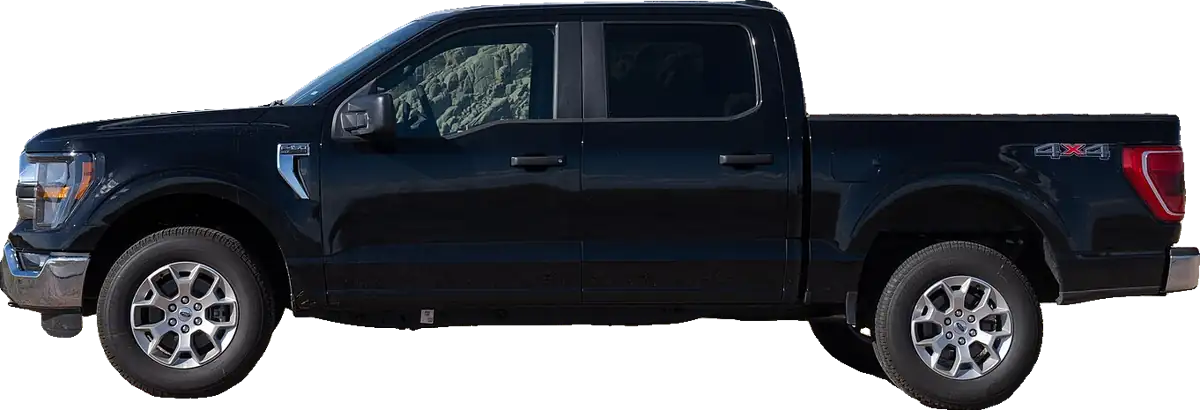
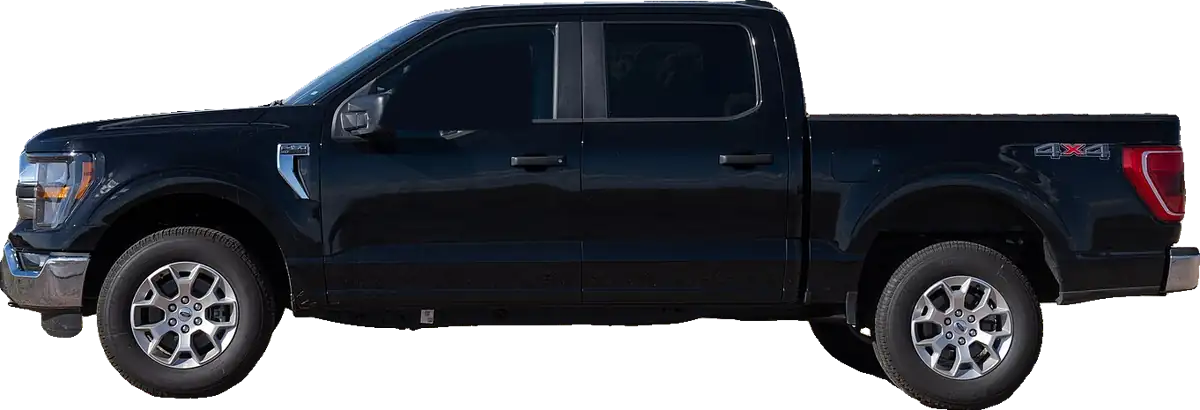
feat: new hero vehicle, a clean white Silverado EV side profile
The F-150 photo had a rock-face reflection in its front window that read as
dirt. The hero is now a 2024 Chevrolet Silverado EV WT side profile (Kaundike,
Wikimedia Commons, CC BY-SA 4.0). cutouts.py gains a glass step: listed window
polygons are filled with the tint of clean glass on the same vehicle, so
reflections of the photo's surroundings do not show. The Silverado's front
window and a background fragment above its roof are cleaned this way. The
truck faces right, so the fade now runs from the left and the front stays
sharp. Footer credit follows the image on the page.

verification: npm run build passes. Cutout checked on dark and magenta backgrounds at full size. Playwright desktop and 390 px mobile screenshots show the full truck with no page errors, credit names the Silverado only.

Claude-Session: https://claude.ai/code/session_01SemKtd3dL5hDa4dub8gHam

Changed region(s): [[0.3083, 0.0878, 0.4625, 0.322]]

diff --git a/site/src/landing.css b/site/src/landing.css
@@ -93,7 +93,7 @@ h3 { font-size: 1.25rem; font-weight: 700; }
     radial-gradient(40% 40% at 10% 10%, rgba(238, 232, 220, 0.06), transparent 70%),
     var(--carbon-900);
 }
-/* ---- Hero vehicle: crisp at the front, the rear and underside dissolve into the page ---- */
+/* ---- Hero vehicle: faces right, crisp at the front, the rear and underside dissolve into the page ---- */
 .hero__car {
   position: absolute;
   z-index: 1;
@@ -115,8 +115,8 @@ h3 { font-size: 1.25rem; font-weight: 700; }
 .hero__car::after {
   content: "";
   position: absolute;
-  left: 4%;
-  right: 22%;
+  left: 22%;
+  right: 4%;
   bottom: -3%;
   height: 12%;
   background: radial-gradient(50% 50% at 50% 50%, rgba(0, 0, 0, 0.7), transparent 70%);
@@ -127,7 +127,7 @@ h3 { font-size: 1.25rem; font-weight: 700; }
   width: 100%;
   height: auto;
   filter: brightness(1.18) contrast(1.06) saturate(0.9);
-  --fade: linear-gradient(to left, transparent 0%, #000 30%), linear-gradient(to bottom, #000 78%, transparent 100%);
+  --fade: linear-gradient(to right, transparent 0%, #000 20%), linear-gradient(to bottom, #000 82%, transparent 100%);
   -webkit-mask-image: var(--fade);
   -webkit-mask-composite: source-in;
   mask-image: var(--fade);
@@ -207,7 +207,7 @@ h3 { font-size: 1.25rem; font-weight: 700; }
   .brand__word { font-size: 1.2rem; }
   .top .brand__tag { display: none; }
   .hero { align-items: flex-start; padding-top: 48px; padding-bottom: 46vw; min-height: 720px; }
-  .hero__car { width: 100vw; right: -6vw; bottom: 2%; }
+  .hero__car { width: 100vw; right: 0; bottom: 2%; }
   .top { backdrop-filter: none; background: var(--carbon-900); }
 }
 

diff --git a/site/index.html b/site/index.html
@@ -11,7 +11,7 @@
   <meta property="og:type" content="website" />
   <meta property="og:title" content="Ember Rent: vans, trucks and cars south of the Fraser" />
   <meta property="og:description" content="All-in prices, neighbourhood pickup and business accounts with monthly invoicing." />
-  <meta property="og:image" content="./hero/ford-f150.webp" />
+  <meta property="og:image" content="./hero/silverado-ev.webp" />
   <script type="application/ld+json">
   {
     "@context": "https://schema.org",
@@ -61,7 +61,7 @@
         </g>
       </svg>
       <figure class="hero__car" aria-hidden="true">
-        <img src="./hero/ford-f150.webp" alt="" width="1200" height="410" fetchpriority="high" />
+        <img src="./hero/silverado-ev.webp" alt="" width="1200" height="401" fetchpriority="high" />
       </figure>
       <div class="hero__copy">
         <p class="eyebrow">Surrey · Delta · White Rock · Langley</p>

diff --git a/tools/hero/cutouts.py b/tools/hero/cutouts.py
@@ -7,6 +7,9 @@ For each entry in tools/hero/cutouts.json:
   3. Remove the background with rembg (isnet-general-use) and keep the largest region.
   4. Clear any listed boxes (fractions of the cutout) that still hold fragments of other objects,
      keep the largest region again and crop to the vehicle.
+  4b. Fill any listed glass polygons (fractions of the cutout) with a flat tint, so reflections of the
+     photo's surroundings in a window do not read as dirt. The tint is sampled from clean glass on the
+     same vehicle and recorded in cutouts.json.
   5. Resize to at most MAX_WIDTH and save WebP with alpha.
 
 The fade into the page is a CSS mask on the site, not baked into the files.
@@ -77,6 +80,16 @@ def source(item, cache):
     return got, raw
 
 
+def glass_filled(rgba, panes):
+    h, w = rgba.shape[:2]
+    for pane in panes:
+        mask = np.zeros((h, w), np.uint8)
+        cv2.fillPoly(mask, [np.array([[x * w, y * h] for x, y in pane["polygon"]], np.int32)], 255)
+        soft = cv2.GaussianBlur(mask, (5, 5), 0)[..., None] / 255.0
+        rgba[..., :3] = (rgba[..., :3] * (1 - soft) + np.array(pane["tint"]) * soft).astype(np.uint8)
+    return rgba
+
+
 def main(cache=None):
     cfg = json.loads(CONFIG.read_text())
     session = new_session(MODEL)
@@ -94,6 +107,7 @@ def main(cache=None):
         rgba = largest_region(np.array(remove(src, session=session, post_process_mask=True)))
         for boxes in item.get("clear_passes", []):
             rgba = boxes_cleared(rgba, boxes)
+        rgba = glass_filled(rgba, item.get("glass", []))
         out = Image.fromarray(rgba)
         if out.width > MAX_WIDTH:
             out = out.resize((MAX_WIDTH, round(out.height * MAX_WIDTH / out.width)), Image.LANCZOS)
